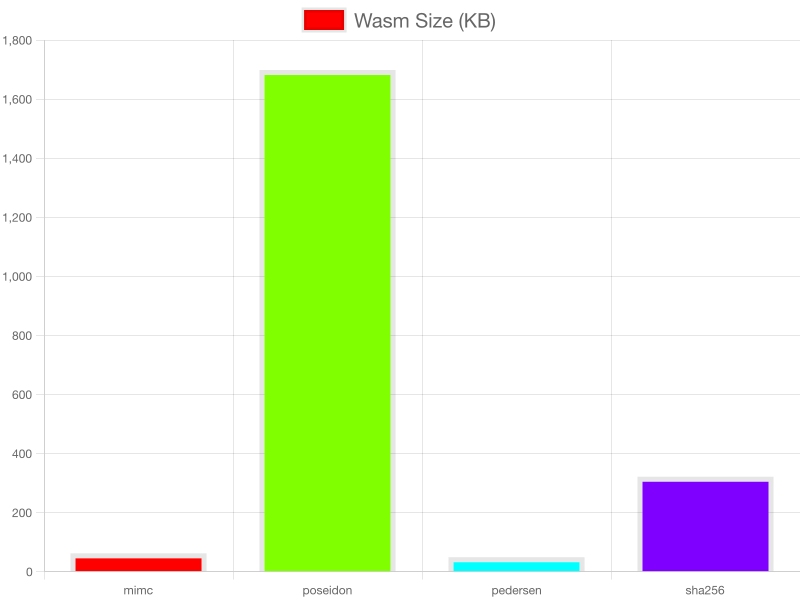
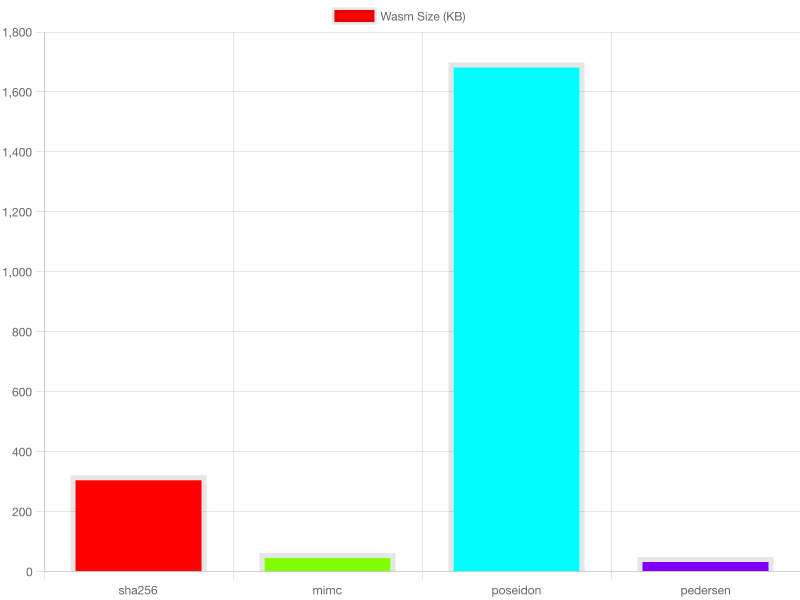
Changed plot orderings

diff --git a/visualizor.js b/visualizor.js
@@ -19,13 +19,6 @@ async function generateBarGraph(labels, data, path, label) {
                 }),
                 borderWidth: 5
             }]
-        },
-        options: {
-            scales: {
-                y: {
-                    beginAtZero: true
-                }
-            }
         }
     });
     
@@ -36,7 +29,7 @@ async function generateBarGraph(labels, data, path, label) {
 }
 
 if (!fs.existsSync('results/plots')) fs.mkdirSync('results/plots');
-hasher_names = ['mimc', 'poseidon', 'pedersen', 'sha256'];
+hasher_names = ['sha256', 'mimc', 'poseidon', 'pedersen'];
 
 wasm_sizes = [];
 r1cs_sizes = [];
